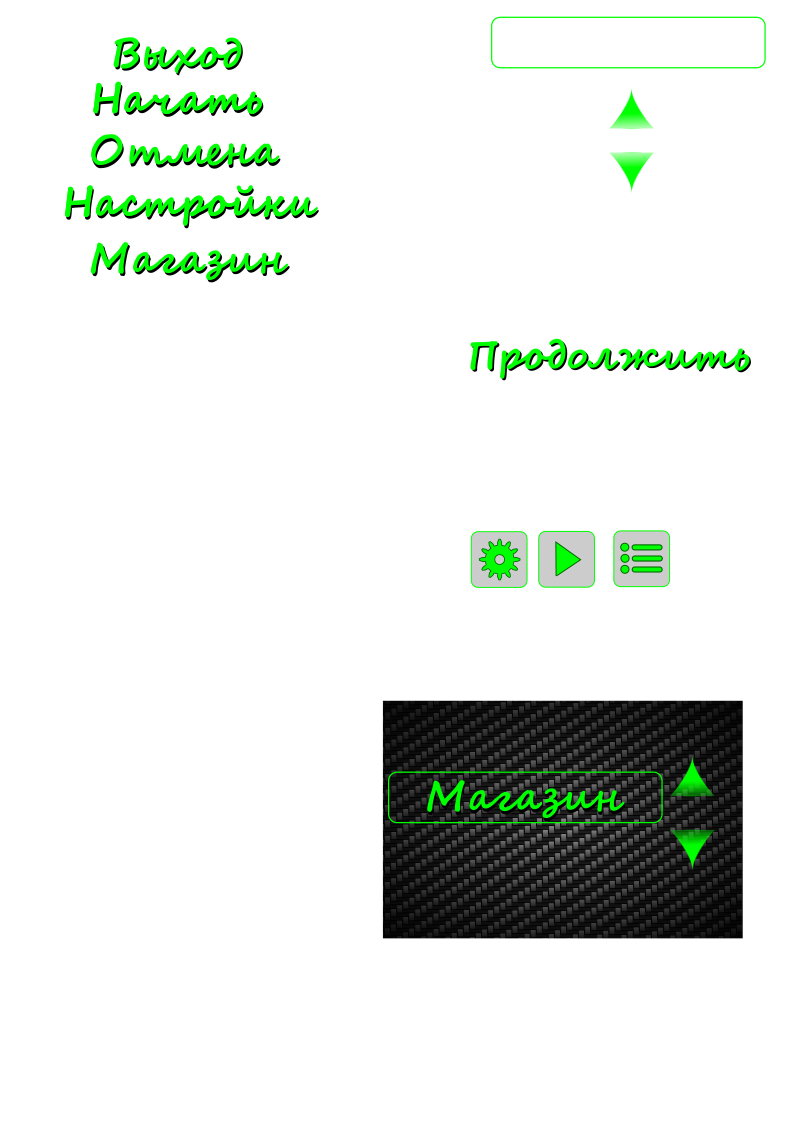
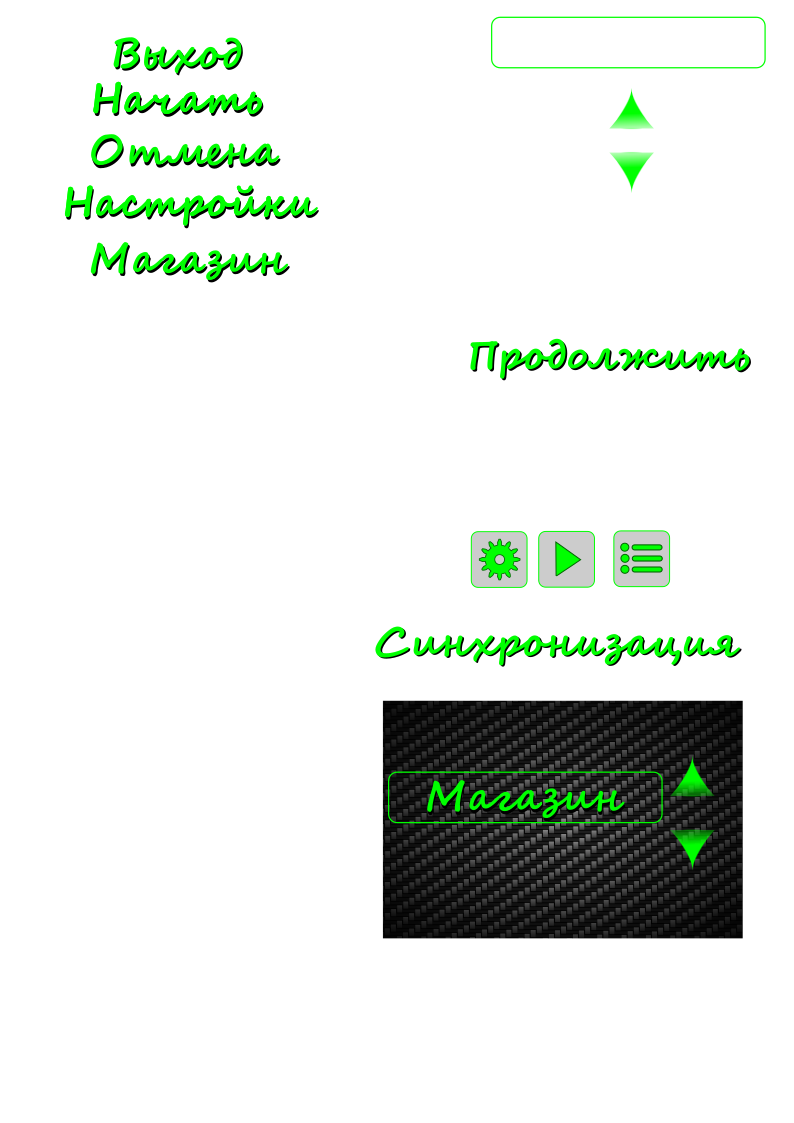
синхронизация Добавление кнопки синхронизации Изменение сериализации (вынес из модели в конвертер)

Changed region(s): [[0.4534, 0.561, 0.937, 0.5922]]

diff --git a/Assets/Scripts/Ui/MainMenu.cs b/Assets/Scripts/Ui/MainMenu.cs
@@ -11,6 +11,9 @@ public class MainMenu : MonoBehaviour
     [SerializeField]
     private MenuItem _exitGameMenuItem;
     [SerializeField]
+    private MenuItem _syncMenuItem;
+
+    [SerializeField]
     private Button _downButton;
     [SerializeField]
     private Button _upButton;
@@ -20,12 +23,14 @@ public class MainMenu : MonoBehaviour
 
     private GameManager _gameManager;
     private SceneLoader _sceneLoader;
+    private PlayerProfile _playerProfile;
 
     [Inject]
-    private void Construct(GameManager gameManager, SceneLoader sceneLoader)
+    private void Construct(GameManager gameManager, SceneLoader sceneLoader, PlayerProfile playerProfile)
     {
         _gameManager = gameManager;
         _sceneLoader = sceneLoader;
+        _playerProfile = playerProfile;
 
         AddButtonListeners();
         InitializeMenuItemList();
@@ -61,7 +66,8 @@ public class MainMenu : MonoBehaviour
         _menuItems = new List<MenuItem>
         {
             _startGameMenuItem,
-            _exitGameMenuItem
+            _syncMenuItem,
+            _exitGameMenuItem,
         };
         SelectMenuItem(0);
     }
@@ -70,6 +76,7 @@ public class MainMenu : MonoBehaviour
     {
         _startGameMenuItem.Button.onClick.AddListener(OnStartGameButtonClick);
         _exitGameMenuItem.Button.onClick.AddListener(OnExitGameButtonClick);
+        _syncMenuItem.Button.onClick.AddListener(OnSyncButtonClick);
         _downButton.onClick.AddListener(OnDownButtonClick);
         _upButton.onClick.AddListener(OnUpButtonClick);
     }
@@ -78,8 +85,14 @@ public class MainMenu : MonoBehaviour
     {
         _startGameMenuItem.Button.onClick.RemoveListener(OnStartGameButtonClick);
         _exitGameMenuItem.Button.onClick.RemoveListener(OnExitGameButtonClick);
+        _syncMenuItem.Button.onClick.RemoveListener(OnSyncButtonClick);
         _downButton.onClick.RemoveListener(OnDownButtonClick);
         _upButton.onClick.RemoveListener(OnUpButtonClick);
+    }
+
+    private void OnSyncButtonClick()
+    {
+        var syncTask = _playerProfile.Synchronization();
     }
 
     private void OnStartGameButtonClick()

diff --git a/Assets/Scripts/Game/PlayerProfile.cs b/Assets/Scripts/Game/PlayerProfile.cs
@@ -1,14 +1,58 @@
 using System;
+using System.Collections.Generic;
+using System.Linq;
+using System.Threading.Tasks;
+using WrongTurn.StateManagement;
+using WrongTurn.StateManagement.Actions.Balance;
+using WrongTurn.StateManagement.Actions.Base;
+using Zenject;
 
 namespace Assets.Scripts.Game
 {
     public class PlayerProfile
     {
-        public Guid PlayerId { get; }
+        private IServerProxy _server;
+        private List<IPlayerAction> _unsavedActions;
 
-        public PlayerProfile()
+        public Guid PlayerId { get; private set; }
+        public Store GameStore { get; private set; }
+        public IEnumerable<IPlayerAction> UnsavedActions { get => _unsavedActions; }
+
+        [Inject]
+        public async Task Construct(IServerProxy serverProxy)
         {
+            _server = serverProxy;
             PlayerId = SystemInfo.GetMachineGuid();
+            var playerState = await LoadPlayerState();
+            GameStore = new Store(playerState);
+            _unsavedActions = new List<IPlayerAction>();
+
+            //CheatTest();
+        }
+
+        //private void CheatTest()
+        //{
+        //    CompleteAction(new RebalancingAction(150));
+        //    CompleteAction(new RebalancingAction(-250));
+        //    GameStore = new Store(new PlayerState(400000, new List<string>()));
+        //}
+
+        public void CompleteAction(IPlayerAction playerAction)
+        {
+            GameStore.Dispatch(playerAction);
+            _unsavedActions.Add(playerAction);
+        }
+
+        private void ClearActionList() => _unsavedActions.Clear();
+
+        private async Task<PlayerState> LoadPlayerState() => await _server.GetByPlayerId(PlayerId) ?? PlayerState.NewPlayerState();
+
+        public async Task Synchronization()
+        {
+            if (!UnsavedActions.Any()) return;
+            var playerState = await _server.SaveState(PlayerId, GameStore.PlayerState, UnsavedActions);
+            if (playerState != null) GameStore = new Store(playerState);
+            ClearActionList();
         }
     }
 }

diff --git a/Assets/Scripts/Proxy/PlayerActionConverter.cs b/Assets/Scripts/Proxy/PlayerActionConverter.cs
@@ -1,0 +1,31 @@
+using Newtonsoft.Json;
+using Newtonsoft.Json.Linq;
+using System;
+using System.Collections.Generic;
+using WrongTurn.StateManagement.Actions.Base;
+
+namespace Assets.Scripts.Proxy
+{
+    internal class PlayerActionConverter : JsonConverter<IEnumerable<IPlayerAction>>
+    {
+        public override IEnumerable<IPlayerAction> ReadJson(JsonReader reader, Type objectType, IEnumerable<IPlayerAction> existingValue, bool hasExistingValue, JsonSerializer serializer)
+        {
+            throw new NotImplementedException();
+        }
+
+        public override void WriteJson(JsonWriter writer, IEnumerable<IPlayerAction> value, JsonSerializer serializer)
+        {
+            var jsonActions = new JArray();
+            foreach (var action in value)
+            {
+                var jObjectAction = new JObject
+                {
+                    ["type"] = action.GetType().FullName,
+                    ["object"] = JObject.FromObject(action)
+                };
+                jsonActions.Add(jObjectAction);
+            }
+            jsonActions.WriteTo(writer);
+        }
+    }
+}

diff --git a/Assets/Scripts/Proxy/ServerProxy.cs b/Assets/Scripts/Proxy/ServerProxy.cs
@@ -42,13 +42,13 @@ public class ServerProxy : IServerProxy
             PlayerState = playerState,
             Actions = actions
         };
-        var json = JObject.FromObject(model).ToString();
-        var content = new StringContent(json, Encoding.UTF8, "application/json");
+        var requestBody = JObject.FromObject(model).ToString();
+        var content = new StringContent(requestBody, Encoding.UTF8, "application/json");
         var response = await client.PostAsync(url, content);
         if (!response.IsSuccessStatusCode) return null;
         var jsonPlayerState = await response.Content.ReadAsStringAsync();
-        var jObject = JObject.Parse(jsonPlayerState);
-        return jObject.ToObject<PlayerState>();
+        if (string.IsNullOrEmpty(jsonPlayerState)) return null;
+        return JObject.Parse(jsonPlayerState).ToObject<PlayerState>();
     }
 
     public async Task<bool> UnlockAchievement(Guid playerId, string achievementId)

diff --git a/Assets/Scripts/Data/SystemInfo.cs b/Assets/Scripts/Data/SystemInfo.cs
@@ -13,14 +13,10 @@ public class SystemInfo
             RegistryKey.OpenBaseKey(RegistryHive.LocalMachine, RegistryView.Registry64);
         using RegistryKey rk = localMachineX64View.OpenSubKey(location);
         if (rk == null)
-            throw new KeyNotFoundException(
-                string.Format("Key Not Found: {0}", location));
+            throw new KeyNotFoundException(string.Format("Key Not Found: {0}", location));
 
-        Guid? machineGuid = rk.GetValue(name) as Guid?;
-        if (!machineGuid.HasValue)
-            throw new IndexOutOfRangeException(
-                string.Format("Index Not Found: {0}", name));
-
-        return machineGuid.Value;
+        var machineGuidString = rk.GetValue(name);
+        var playerGuid = new Guid(machineGuidString.ToString());
+        return playerGuid;
     }
 }

diff --git a/Assets/Scripts/Proxy/SaveStateModel.cs b/Assets/Scripts/Proxy/SaveStateModel.cs
@@ -1,3 +1,5 @@
+using Assets.Scripts.Proxy;
+using Newtonsoft.Json;
 using System;
 using System.Collections.Generic;
 using WrongTurn.StateManagement;
@@ -7,5 +9,8 @@ public class SaveStateModel
 {
     public Guid PlayerId { get; set; }
     public PlayerState PlayerState { get; set; }
+
+    [JsonConverter(typeof(PlayerActionConverter))]
+    [JsonProperty(PropertyName = "Actions")]
     public IEnumerable<IPlayerAction> Actions { get; set; }
 }
